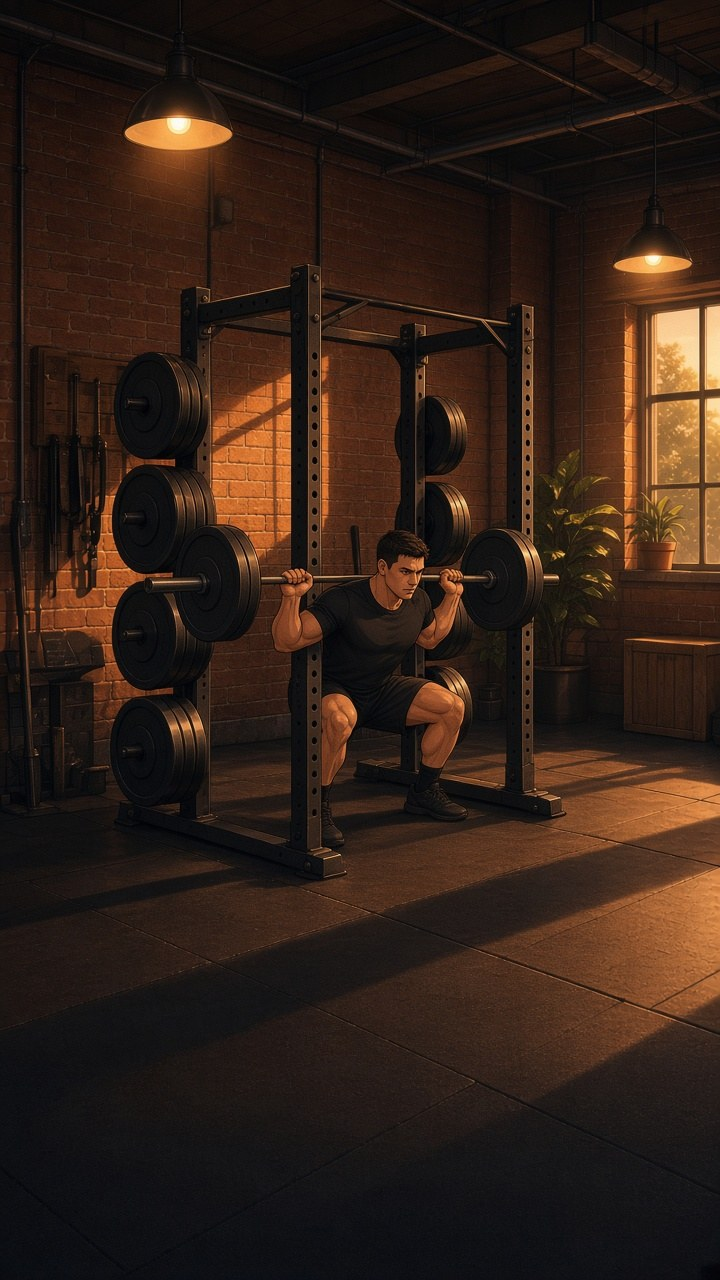
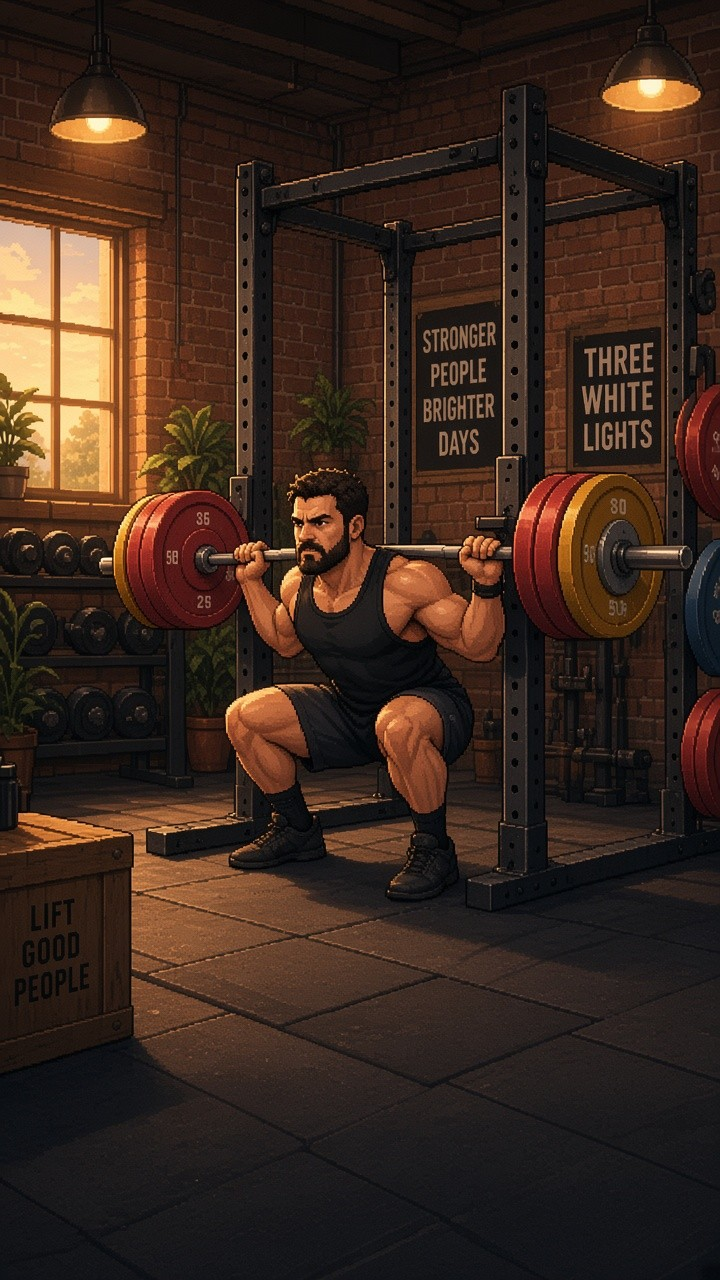
Replace locker-room plates with mockup panel 03 garage stills
Owned illustrated facility stills: brick, amber light, original posters,
unbranded plates. HUD stays a React overlay. No third-party marks.

diff --git a/docs/design/IRON-AMBER-TRAINING-ASSETS.md b/docs/design/IRON-AMBER-TRAINING-ASSETS.md
@@ -4,7 +4,7 @@ Owned illustrated stills for Session A (daily loop and Meet Day). Generated
 2026-09-13 from the binding mockup `docs/design/iron-and-amber-reference.jpeg`
 (panel 03: warm gym atmosphere + athletic HUD). These are not third-party stock,
 not sprite rasters, not a CSS recolor of the old stage, and they do not carry
-third-party brand marks.
+third-party marks. HUD chrome is the React overlay, not pixels in the JPEG.
 
 The plates are the gameplay surface: check-in, briefing, live squat/bench/deadlift,
 rest, close-out, walk-out, attempt, verdict, and attempt-select fill the room.
@@ -31,9 +31,10 @@ picture.
 
 ## Provenance
 
-Cursor GenerateImage, rights-clean illustrated facility stills. Gym briefing and
-lift plates share one locker-room: bare brick, unbranded plates, no posters.
-Source size 720×1280 JPEG.
+Cursor GenerateImage, rights-clean illustrated facility stills matching mockup
+panel 03's garage: brick, amber lights, original Three White Lights posters,
+plants, crate copy, unbranded plates. Chrome stays a React overlay — the JPEGs
+are the room, not the HUD. Source size 720×1280 JPEG.
 
 | Plate | File |
 | --- | --- |
